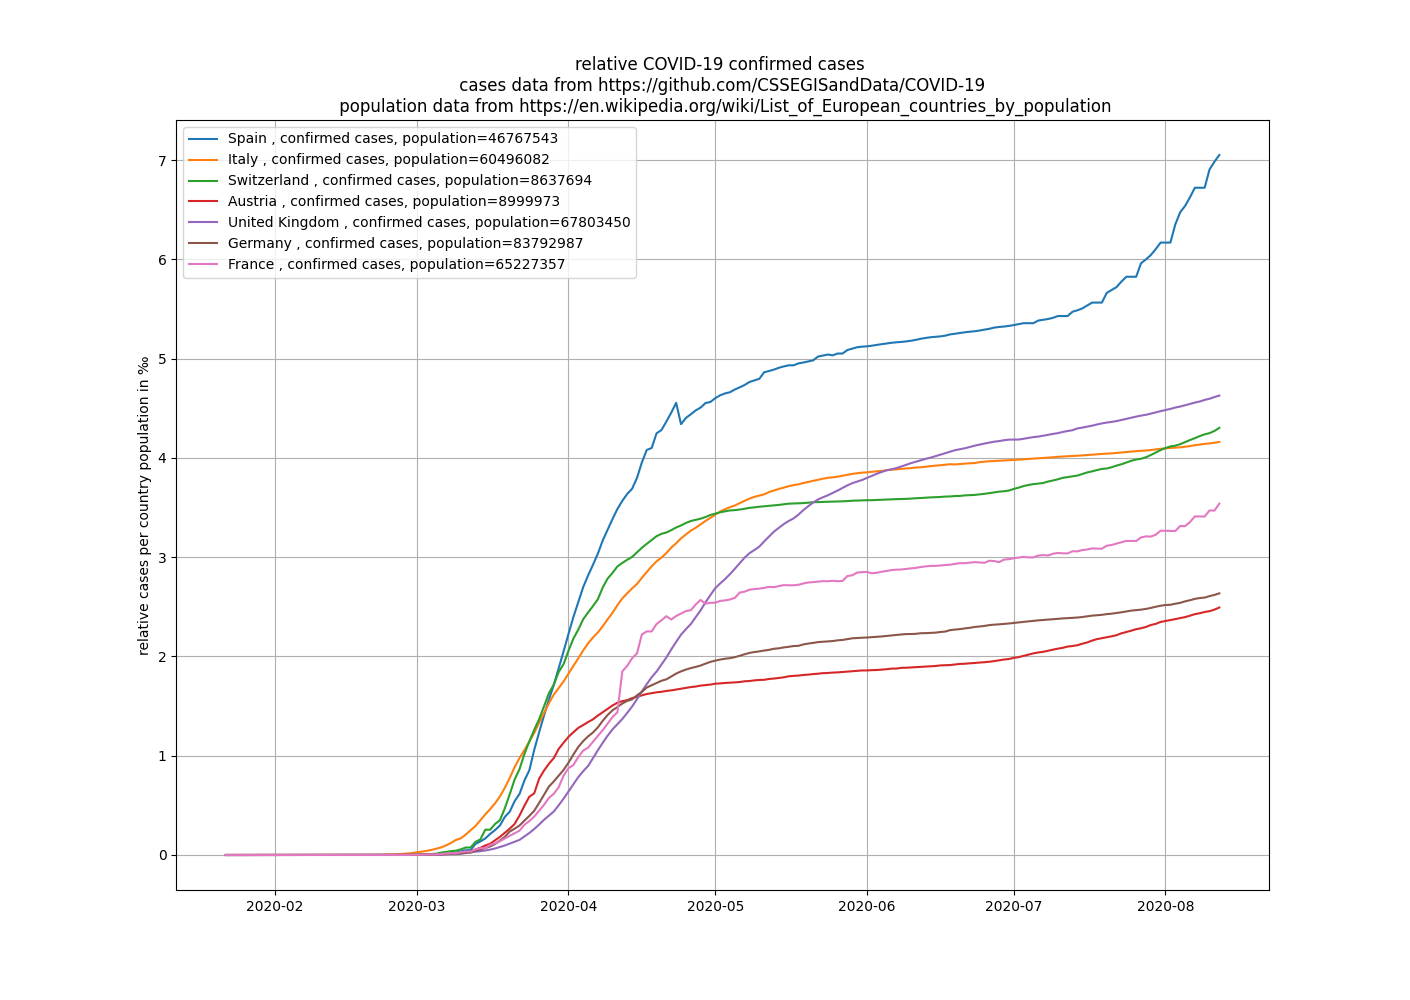
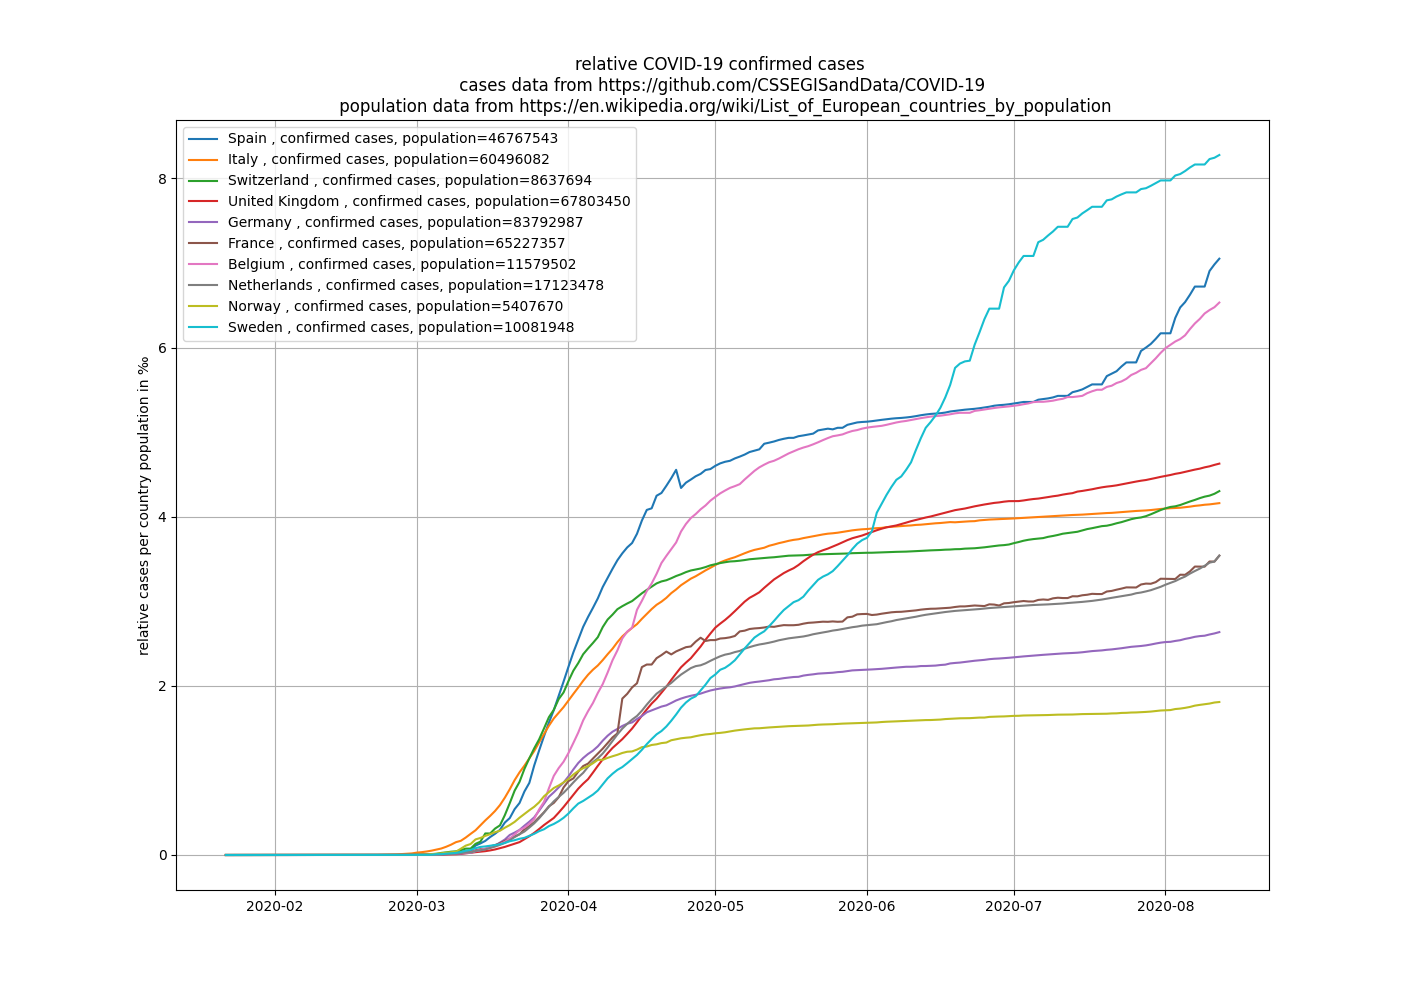
update

diff --git a/simple_visualization.py b/simple_visualization.py
@@ -42,10 +42,9 @@ class Covid(object):
         south_korea = {'data_type':'confirmed', 'data_line':self.data_line('Korea, South', ''), 'population':51635256 , 'population_source':''}
 
 
-        country_list = [spain, italy, switzerland, norway, denmark, sweden, austria, uk, germany, france, netherlands, belgium, us, iran, south_korea]
-        country_list = [spain, italy, switzerland, austria, uk, germany, france]
-        #country_list = [spain, italy, switzerland, germany, france, us, iran, south_korea]
-        #country_list = [spain]
+        #country_list = [spain, italy, switzerland, norway, denmark, sweden, austria, uk, germany, france, netherlands, belgium, us, iran, south_korea]
+        country_list = [spain, italy, switzerland, uk, germany, france, belgium, netherlands, norway,sweden]
+       
 
         filename = 'relative_cases.png'
         title = "relative COVID-19 confirmed cases \n cases data from https://github.com/CSSEGISandData/COVID-19 \n population data from https://en.wikipedia.org/wiki/List_of_European_countries_by_population"
